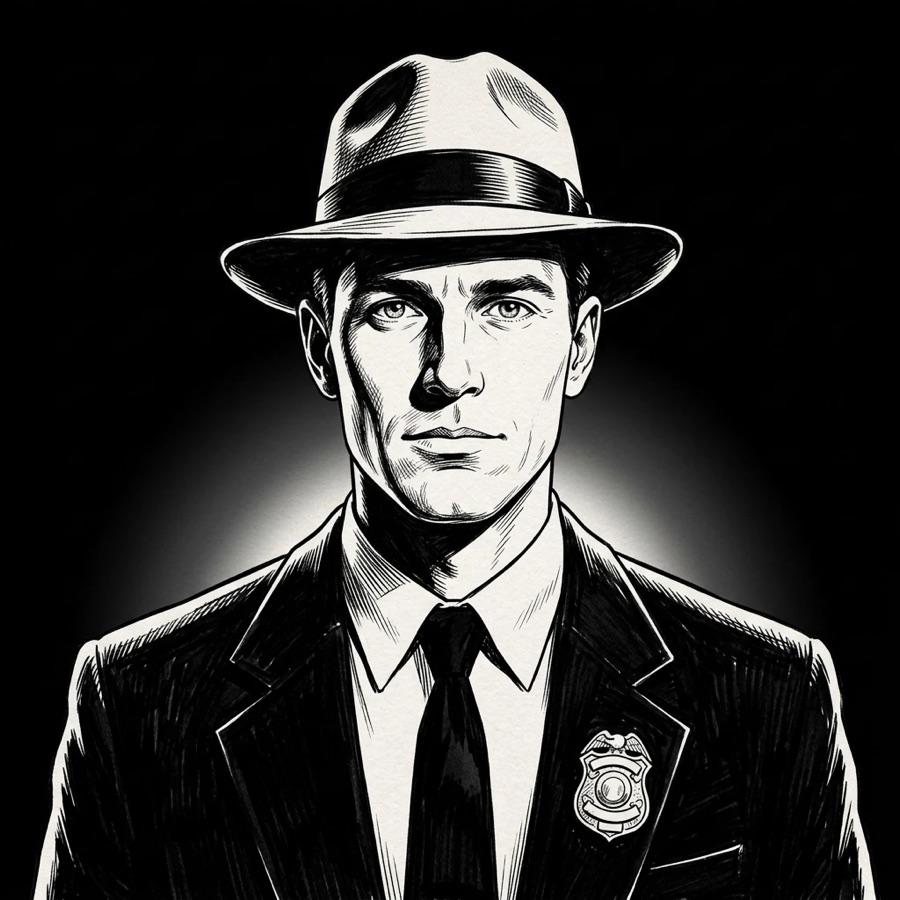
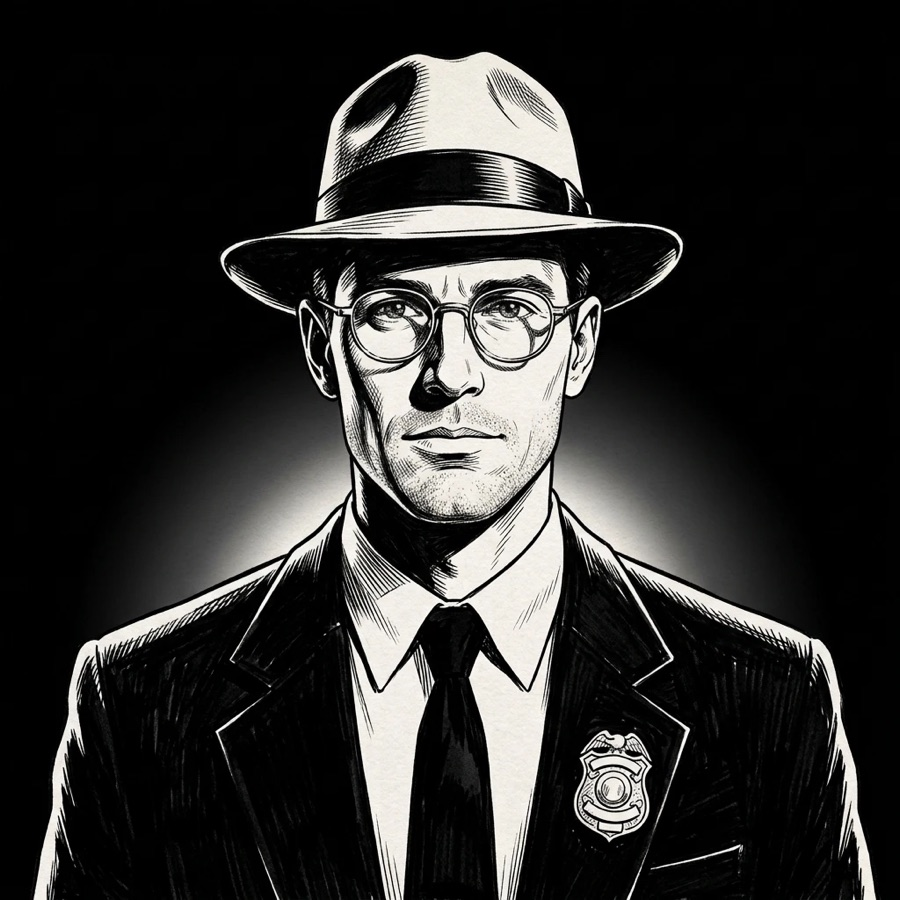
Edward Novak puts on steel-rimmed glasses
His portrait and fixed look now include round 1940s wire spectacles
and a pale fedora, which make him the easiest of the cast to pick out.

Changed region(s): [[0.3422, 0.3111, 0.6533, 0.5911], [0.6533, 0.8089, 0.6844, 0.84], [0.3733, 0.1556, 0.4044, 0.1867]]

diff --git a/the-precinct/theme.js b/the-precinct/theme.js
@@ -24,7 +24,7 @@ export default {
     {
       id: 'detective', name: 'Edward Novak', short: 'Edward Novak', role: 'The Detective', tag: 'The good guy',
       story: 'The hero. Straight, stubborn and still sure the truth matters. He is the one Vera Sinclair really wants.',
-      look: 'a lean square-jawed man in his late twenties, clean-shaven with a steady clear-eyed gaze, a neat dark suit with a detective badge on the coat, pale shirt and tie done up tight, a fedora worn straight',
+      look: 'a lean square-jawed man in his late twenties, clean-shaven, steel-rimmed round 1940s spectacles with thin wire frames and clear lenses, a steady clear-eyed gaze, a neat dark suit jacket with a detective badge pinned on the chest, pale shirt and dark tie done up tight, a pale fedora worn straight',
       img: IMG + 'ref/novak-card.jpg',
     },
     {
@@ -101,7 +101,7 @@ export default {
     'sunset-street': ['A city street at sunset with lit windows, street lamps and a parked black car', 'setting'],
     'fedora':        ['A stern man in a fedora and trench coat, close-up', 'character', 'commissioner'],
     'boss':          ['A heavy-set man with slicked-back hair in a suit, glaring', 'character'],
-    'novak-card':    ['A clean-shaven young man in a fedora, dark suit and tie, a badge on his jacket, looking steadily at us out of the dark', 'character', 'detective'],
+    'novak-card':    ['A young man in round wire-rimmed glasses and a pale fedora, dark suit and tie, a badge on his jacket, looking steadily at us out of the dark', 'character', 'detective'],
     'vance-card':    ['A heavy-set older man in a fedora and belted trench coat over a three-piece suit, hands in his pockets, staring coldly out of the dark', 'character', 'commissioner'],
     'vera-card':     ['A woman with shoulder-length platinum-blonde waves, pearl earrings and a black evening gown, looking back over her shoulder with a knowing smile', 'character', 'femme'],
     'rourke-card':   ['A huge muscular man in shirtsleeves, braces and a loosened tie, teeth bared around a matchstick, glaring out of the dark', 'character', 'disillusioned'],

diff --git a/worker.js b/worker.js
@@ -180,7 +180,7 @@ PALETTE RULES (the palette line in the request is the attendee's choice; honour 
 
 CAST RULES (when the request names cast members):
 - Each character has a fixed look. Put it into the prompt near word for word: it is the only thing keeping the character recognisable from one picture to the next. For medium and advanced tiers it belongs in the anchor.
-- Never swap looks between characters, and keep the two detectives visibly different: Edward Novak is young, clean-shaven and neat; Sergeant Frank Rourke is older and hugely muscular, in shirtsleeves, braces and a shoulder holster, and always on the edge of rage.
+- Never swap looks between characters, and keep the two detectives visibly different: Edward Novak is young, clean-shaven and neat, and the only one in round steel-rimmed glasses; Sergeant Frank Rourke is older and hugely muscular, in shirtsleeves, braces and a shoulder holster, and always on the edge of rage.
 - Use the names in why_this_works and the other notes, but keep them out of the image prompt itself: image models don't know these characters, and a name in the prompt invites lettering on the picture. In the prompt, describe the character by their fixed look.
 - With two characters in an advanced request, let their relationship drive the staging (who looks at whom, who stands in whose shadow), but show it; never write it as text in the image.
 - Keep everything suitable for a room of teachers: tension and menace, no gore.
